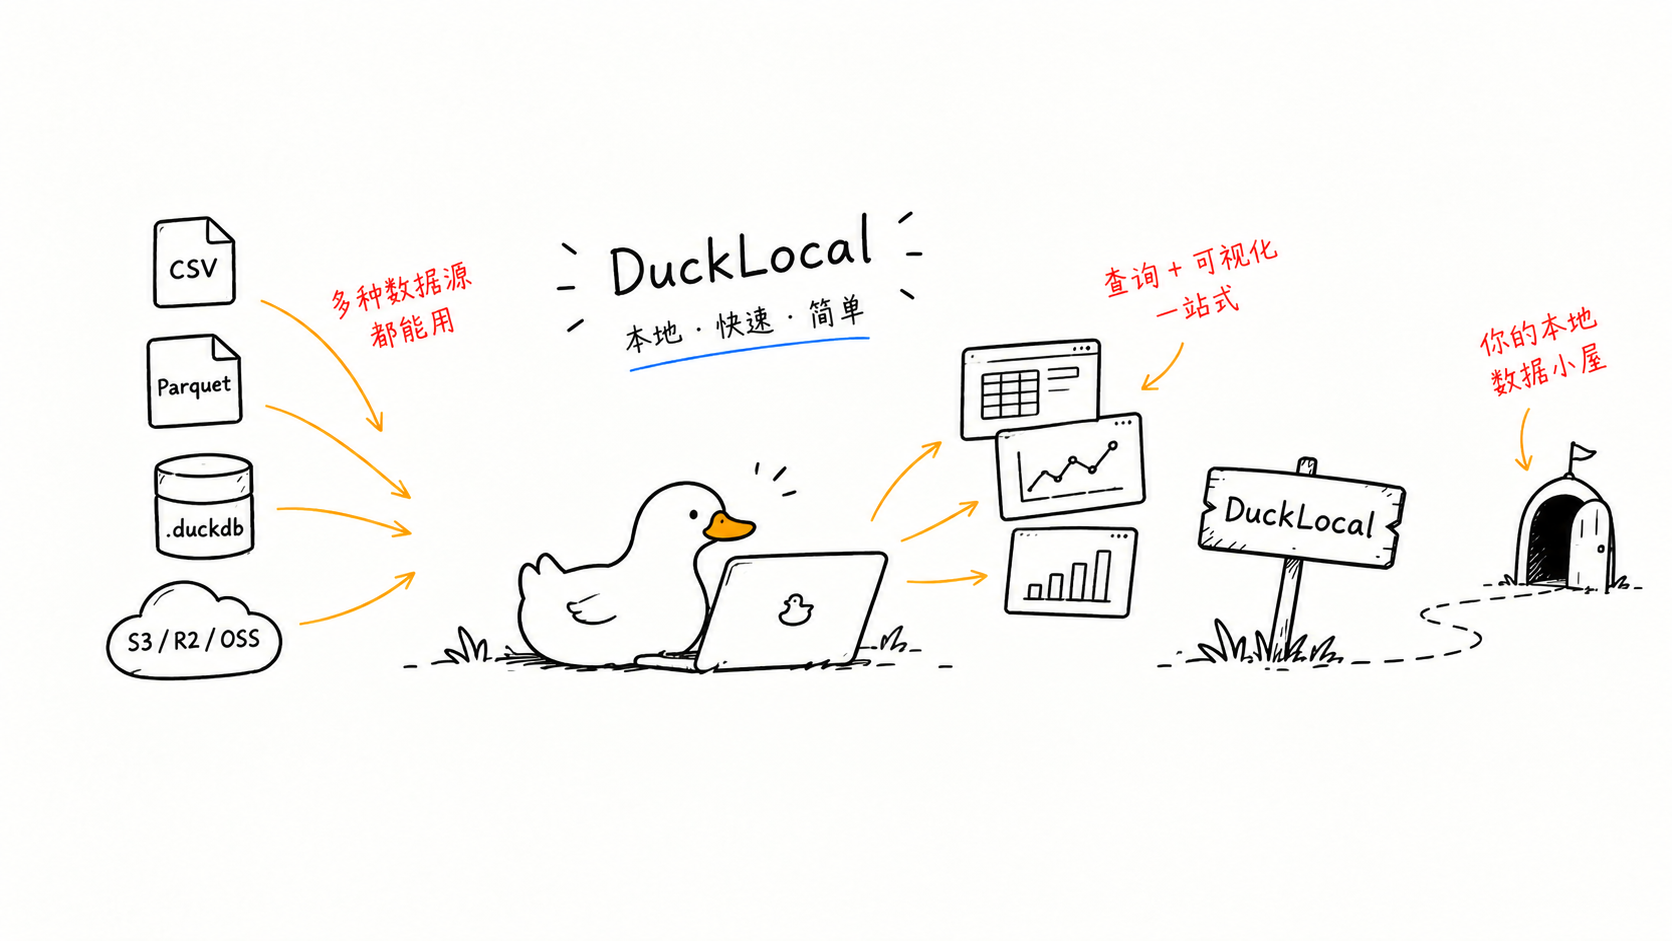
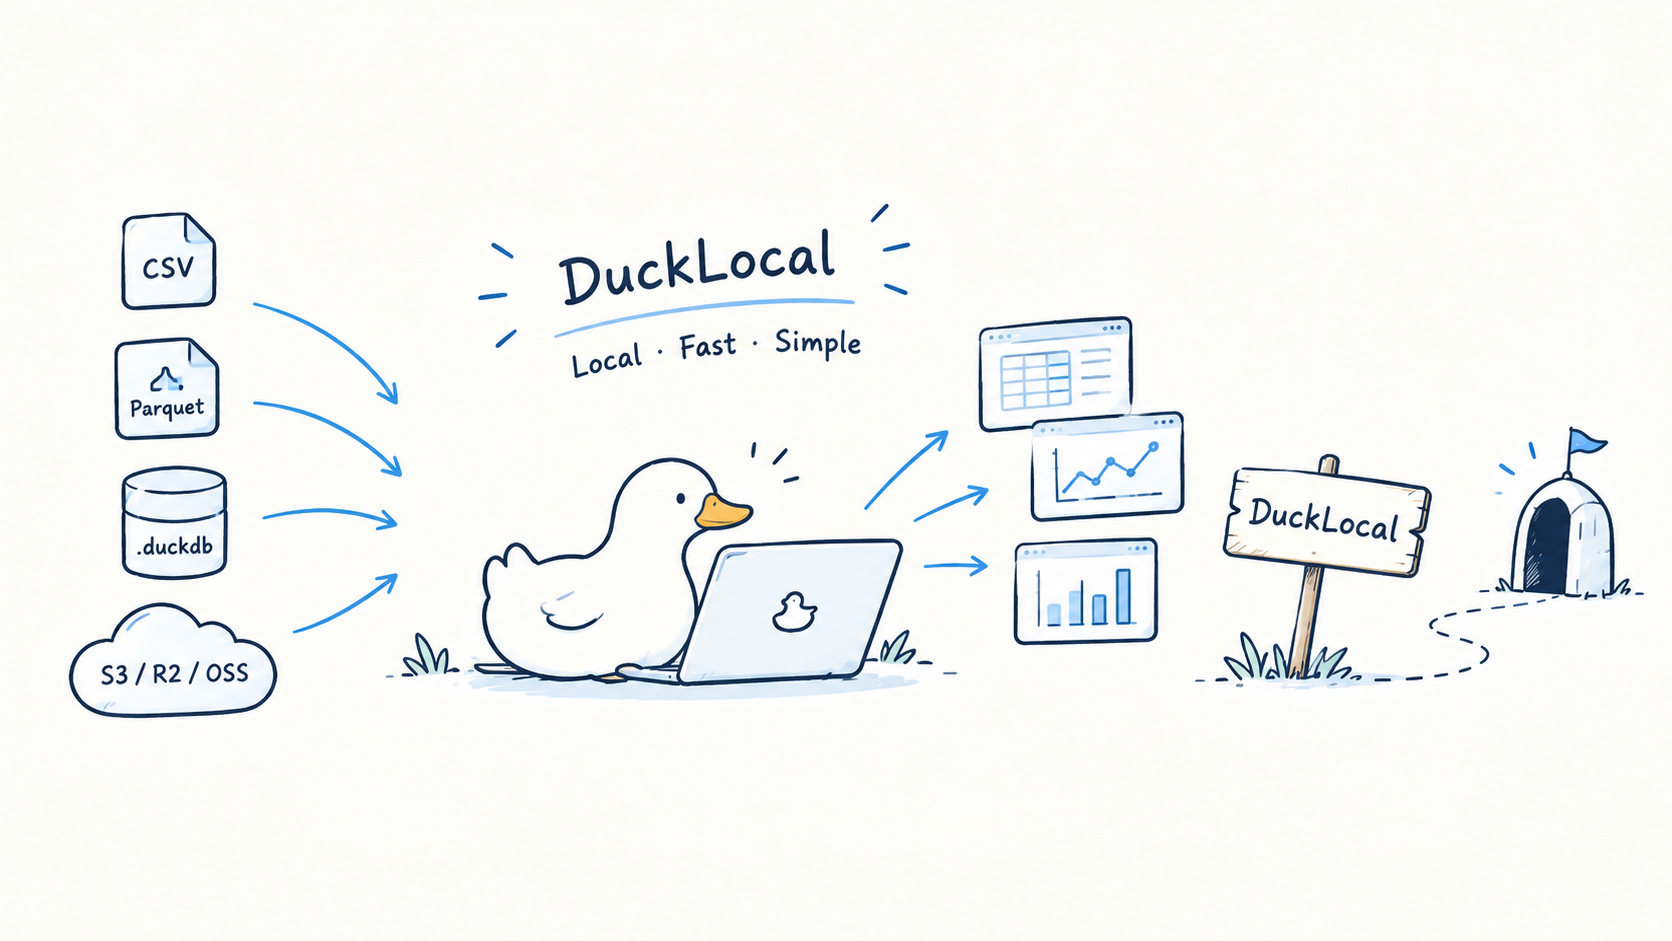
Trim the READMEs and replace the intro image
Point to ducklocal.app/docs instead of listing every guide, condense the
CLI section to the common commands, and merge Run and Build into one
Development section.

diff --git a/README.md b/README.md
@@ -4,7 +4,7 @@
 
 **[ducklocal.app](https://ducklocal.app/)** · **[Docs](https://ducklocal.app/docs/)** · **[中文文档](README.zh-CN.md)**
 
-A local-first workspace for querying and exploring your data, built natively on DuckDB. Point it at your files — there is no connection to configure, no schema to create, and nothing is uploaded anywhere.
+A local-first workspace for querying and exploring your data, built natively on DuckDB. Point it at your files — no connection to configure, no schema to create, nothing uploaded.
 
 ![How DuckLocal works](assets/intro.png)
 
@@ -17,98 +17,53 @@ ducklocal './data/*.csv'      # a pattern
 ducklocal warehouse.duckdb    # or an existing DuckDB database
 ```
 
-Each CSV, TSV, Parquet, JSON, or Excel file becomes queryable as the window opens. You can also drag files or folders onto the window, or pick them from the file dialog — and they stay registered, so the next launch starts with the same workspace. One open request attaches at most 256 files.
+CSV, TSV, Parquet, JSON, and Excel files are queryable as soon as the window opens. You can also drag them onto the window or pick them from the file dialog; the workspace is remembered for the next launch.
 
-Your data stays on your machine: nothing is uploaded, and there is no account. Map charts can draw an OpenStreetMap base map under their points, off until you turn it on (View → Online base map): its tile requests reveal the area being viewed, never your rows.
+Your data stays on your machine, and there is no account. The only optional network use is the OpenStreetMap base map for map charts (View → Online base map, off by default), and S3 when you configure it.
 
 ## Features
 
-- Open local CSV / TSV / Parquet / JSON / Excel files, or whole folders — from the command line, the picker, or a drop on the window
-- SQL editor with syntax highlighting, autocompletion and one-click formatting, across multiple query tabs
-- Run queries with ⌘↵ (Cmd+Enter); inspect plans with EXPLAIN
-- Schema sidebar: browse databases / schemas / tables / columns, generate SELECT queries in one click, alter a column's data type from a dialog
-- Results grid with filtering, cell copy, CSV/Parquet export and built-in charts
-- Query history with one-click refill into the editor
-- Optional S3 support via httpfs; credentials are session-only
-- Light and dark themes, four interface sizes (⌘+ / ⌘− / ⌘0), English and 简体中文
+- SQL editor with highlighting, autocompletion, formatting, and multiple tabs; run with ⌘↵, inspect plans with EXPLAIN
+- Schema sidebar: browse tables and columns, generate SELECTs, change a column's type
+- Results grid with filtering, copy, CSV/Parquet export, and built-in charts
+- Dashboards as `.dash` files, with cross-filtering
+- Query history, S3 via httpfs (session-only credentials)
+- Light and dark themes, four interface sizes, English and 简体中文
 
-## AI CLI and official skill
+## CLI for agents
 
-Run one SQL statement without opening a window or reading GUI history/settings:
+The same binary works headless and returns structured JSON, so an AI agent can explore data without a window:
 
 ```bash
-ducklocal --help
-ducklocal query --sql "DESCRIBE SELECT * FROM 'sales.csv'"
+ducklocal schema ./data/                                  # what can be queried, with columns
 ducklocal query --sql "SELECT * FROM 'sales.csv'" --limit 20
-ducklocal query --database warehouse.duckdb --sql "SHOW TABLES"
+ducklocal check dashboard.dash                            # validate a dashboard spec
+ducklocal open --run --sql "SELECT ..."                   # hand a result to the running window
+ducklocal open --state                                    # read back what the window shows
 ```
 
-Results are structured JSON, with explicit truncation and precision-preserving value encodings; `--format md` prints the same values as a Markdown table for a document to quote. File databases default to read-only; writes require `--read-write`. Read-only is not a filesystem/network sandbox: `COPY` can still write files. An error is JSON too, and carries a `hint` when there is an obvious next step — the flag that was meant, `--read-write` for a refused write, `ducklocal schema` for a table that does not exist.
+Database files open read-only unless you pass `--read-write`. See the [CLI guide](https://ducklocal.app/docs/cli) for every command and option.
 
-`ducklocal schema` maps what there is to query in one call — every file under the PATHs, or a database's tables and views, with their columns and the SQL that reads each. A large catalog comes back as a summary sized for a prompt, and `--stats` gives one relation's exact per-column statistics:
-
-```bash
-ducklocal schema ./data/
-ducklocal schema --database warehouse.duckdb --table orders
-ducklocal schema sales.csv --stats        # nulls, distinct, min/max, median, day coverage
-```
-
-An analysis app can be exported as one standalone HTML file — the statements its `query()` calls issued, with their results — for sharing with someone who does not have DuckLocal:
-
-```bash
-ducklocal export --html examples/analysis_app
-```
-
-A dashboard can also be declared as data: a `.dash` file of query and plot blocks, opened as a tab like an app, editable right there in the GUI. A `filter` block makes a bar chart or a table clickable: the value picked there narrows every query that reads it as `$name` — cross-filtering, with the picking plot itself left whole. `ducklocal check` validates a spec without a window, and `ducklocal lsp` gives any LSP-capable editor the same diagnostics, completion, hover and go-to-definition:
-
-```bash
-ducklocal dashboard.dash                  # open as a dashboard tab
-ducklocal check dashboard.dash            # validate; JSON diagnostics, exit 2 on mistakes
-ducklocal lsp                             # language server over stdio, for editors
-```
-
-When the work is for a person to see, `ducklocal open` hands it to the window that is already running — starting one if none is — as a tab in front. It runs in the window's own session, so they can carry on from it:
-
-```bash
-ducklocal open --title "Revenue" --run --sql "SELECT channel, sum(amount) FROM 'orders.csv' GROUP BY 1"
-ducklocal open dashboard.dash             # a dashboard tab; data files and folders attach
-ducklocal open --no-launch --sql-file q.sql   # exit 1, kind not_running, if no window is up
-```
-
-The other direction works too: `ducklocal open --state` reports what the running window shows — its tabs, each query's SQL and result, each dashboard's picked filters — so an agent can carry on from where the person left off.
-
-See the [CLI guide](https://ducklocal.app/docs/cli) for conversion, stdin, output, app export, and safety details.
-
-The [official agent skill](skills/ducklocal/SKILL.md) teaches schema-first exploration, SQL analysis, and verified file conversion. Copy it into your target project's supported skills directory; for example, from this checkout:
+The [official agent skill](skills/ducklocal/SKILL.md) teaches schema-first exploration, SQL analysis, and file conversion. Copy it into your project:
 
 ```bash
 mkdir -p /path/to/your-project/.claude/skills
 cp -R skills/ducklocal /path/to/your-project/.claude/skills/
 ```
 
-Inspect existing destinations before overwriting. No global configuration is changed. Current releases target macOS 12+ on Apple silicon; the app binary is `/Applications/DuckLocal.app/Contents/MacOS/ducklocal`. Check its help/version for CLI support, or build this checkout with `cargo build --locked` and use `./target/debug/ducklocal`.
-
 ## Documentation
 
-The guides are at **[ducklocal.app/docs](https://ducklocal.app/docs/)**: [getting started](https://ducklocal.app/docs/getting-started), a [10-minute tutorial](https://ducklocal.app/docs/tutorial) with sample data, [troubleshooting](https://ducklocal.app/docs/troubleshooting), [data sources](https://ducklocal.app/docs/data-sources), [S3 and httpfs](https://ducklocal.app/docs/s3), [SQL editor](https://ducklocal.app/docs/sql-editor), [schema browser and history](https://ducklocal.app/docs/schema-and-history), [results and charts](https://ducklocal.app/docs/results-and-charts), [settings and app data](https://ducklocal.app/docs/settings-and-data), [dashboards](https://ducklocal.app/docs/dashboards), and [development](https://ducklocal.app/docs/development).
+Guides, a tutorial, and troubleshooting are at **[ducklocal.app/docs](https://ducklocal.app/docs/)** (source: [JetSquirrel/ducklocal-site](https://github.com/JetSquirrel/ducklocal-site)).
 
-The website — the product page at [ducklocal.app](https://ducklocal.app/) and the docs — lives in its own repository, [JetSquirrel/ducklocal-site](https://github.com/JetSquirrel/ducklocal-site). A change here that changes what the docs say needs a pull request there too.
-
-## Run
+## Development
 
 ```bash
 cargo run                     # start with an empty workspace
 cargo run -- ./data/logs/     # or open something straight away
+./scripts/bundle.sh           # build target/release/DuckLocal.app (unsigned)
 ```
 
-## Build the macOS app
-
-```bash
-./scripts/bundle.sh
-# Produces target/release/DuckLocal.app
-```
-
-The released disk image runs on macOS 12 or later, Apple silicon only. `bundle.sh` does not sign what it builds; `scripts/package-macos.sh` is the shipping path and signs and notarizes the dmg. See [development](https://ducklocal.app/docs/development).
+Releases target macOS 12+ on Apple silicon; `scripts/package-macos.sh` builds the signed, notarized dmg. See [development](https://ducklocal.app/docs/development).
 
 ## License
 

diff --git a/README.zh-CN.md b/README.zh-CN.md
@@ -17,98 +17,53 @@ ducklocal './data/*.csv'      # 通配符
 ducklocal warehouse.duckdb    # 或已有的 DuckDB 数据库
 ```
 
-每个 CSV / TSV / Parquet / JSON / Excel 文件在窗口打开时即可查询。也可以把文件或文件夹拖进窗口，或用文件对话框选择；它们会被记住，下次启动直接回到同一个工作区。一次打开请求最多挂载 256 个文件。
+CSV / TSV / Parquet / JSON / Excel 文件在窗口打开时即可查询。也可以拖进窗口或用文件对话框选择；工作区会被记住，下次启动直接恢复。
 
-数据只留在这台机器上：不上传、不需要账号。地图图表可以在点下方绘制 OpenStreetMap 底图，默认关闭，需在「视图 → 在线底图」中开启：瓦片请求会暴露正在查看的区域，但绝不包含你的数据行。
+数据只留在这台机器上，不需要账号。仅有的可选联网是地图图表的 OpenStreetMap 底图（「视图 → 在线底图」，默认关闭），以及你主动配置的 S3。
 
 ## 功能
 
-- 把本地 CSV / TSV / Parquet / JSON / Excel 文件或整个文件夹打开为可查询关系：命令行、文件对话框、拖放三种入口
-- SQL 编辑器：语法高亮、自动补全、一键格式化，支持多查询 Tab
-- ⌘↵（Cmd+Enter）运行查询，EXPLAIN 查看查询计划
-- Schema 侧栏：浏览数据库 / schema / 表 / 列，一键生成 SELECT 查询，可在对话框中修改列的数据类型
-- 结果表格支持筛选、单元格复制、CSV/Parquet 导出和内置图表
-- 查询历史，单击回填编辑器
-- 可选 S3 支持（httpfs），凭据仅当前会话有效
-- 明暗主题切换，四档界面大小（⌘+ / ⌘− / ⌘0），中英文界面
+- SQL 编辑器：语法高亮、自动补全、格式化、多 Tab；⌘↵ 运行，EXPLAIN 查看计划
+- Schema 侧栏：浏览表和列、一键生成 SELECT、修改列类型
+- 结果表格：筛选、复制、CSV/Parquet 导出、内置图表
+- `.dash` 文件定义的 Dashboard，支持交叉筛选
+- 查询历史；通过 httpfs 支持 S3（凭据仅当前会话有效）
+- 明暗主题、四档界面大小、中英文界面
 
-## AI CLI 与官方 skill
+## 面向 Agent 的 CLI
 
-无窗口执行一条 SQL，不读取 GUI 历史或设置：
+同一个二进制可以无窗口运行并输出结构化 JSON，AI agent 不用打开界面就能探索数据：
 
 ```bash
-ducklocal --help
-ducklocal query --sql "DESCRIBE SELECT * FROM 'sales.csv'"
+ducklocal schema ./data/                                  # 列出可查询的内容及列
 ducklocal query --sql "SELECT * FROM 'sales.csv'" --limit 20
-ducklocal query --database warehouse.duckdb --sql "SHOW TABLES"
+ducklocal check dashboard.dash                            # 校验 dashboard 文件
+ducklocal open --run --sql "SELECT ..."                   # 把结果交给正在运行的窗口
+ducklocal open --state                                    # 读取窗口当前显示的内容
 ```
 
-结果为结构化 JSON，显式标记截断并保留数值精度；`--format md` 把同样的值输出为 Markdown 表格，便于写进文档引用。文件数据库默认只读，写入需 `--read-write`；只读不是文件系统/网络沙箱，`COPY` 仍可写文件。出错时同样输出 JSON；有明确下一步时会带 `hint`，比如拼错的参数本来是哪个、写入被拒时加 `--read-write`、表不存在时先跑 `ducklocal schema`。
+数据库文件默认只读，写入需加 `--read-write`。全部命令和参数见 [CLI 指南](https://ducklocal.app/docs/zh/cli)。
 
-`ducklocal schema` 一次列出所有可查询的东西：PATH 下的每个文件，或数据库的表和视图，连同列和读取它的 SQL。目录很大时返回适合放进提示词的摘要；`--stats` 给出单个关系精确的逐列统计：
-
-```bash
-ducklocal schema ./data/
-ducklocal schema --database warehouse.duckdb --table orders
-ducklocal schema sales.csv --stats        # 空值、去重数、最值、中位数、日期覆盖
-```
-
-分析应用可以导出为一个独立 HTML 文件——应用 `query()` 发出的语句及其结果——方便发给没有 DuckLocal 的人：
-
-```bash
-ducklocal export --html examples/analysis_app
-```
-
-dashboard 也可以声明为数据：一个由 query 和 plot block 组成的 `.dash` 文件，像应用一样以标签页打开，并可直接在 GUI 里编辑。`filter` block 让柱状图或表格可以点选：选中的值会筛选所有以 `$name` 引用它的查询，也就是交叉筛选，做选择的那张图本身保持不变。`ducklocal check` 无窗口校验规格文件，`ducklocal lsp` 则把同样的诊断、补全、悬停和跳转定义提供给任何支持 LSP 的编辑器：
-
-```bash
-ducklocal dashboard.dash                  # 以 dashboard 标签页打开
-ducklocal check dashboard.dash            # 校验；JSON 诊断，有错误时退出码 2
-ducklocal lsp                             # 面向编辑器的语言服务器（stdio）
-```
-
-如果结果是给人看的，`ducklocal open` 会把它交给已经在运行的窗口（没有就先启动一个），作为前台的新标签页打开。它在窗口自己的会话里运行，人可以直接接着改：
-
-```bash
-ducklocal open --title "Revenue" --run --sql "SELECT channel, sum(amount) FROM 'orders.csv' GROUP BY 1"
-ducklocal open dashboard.dash             # 打开为 dashboard 标签页；数据文件和文件夹会被挂载
-ducklocal open --no-launch --sql-file q.sql   # 没有窗口时退出码 1，kind 为 not_running
-```
-
-反方向也可以：`ducklocal open --state` 报告正在运行的窗口里显示的内容，包括各个标签页、每个查询的 SQL 和结果、每个 dashboard 当前选中的筛选。这样 agent 可以从人停下的地方接着做。
-
-转换、stdin、输出编码、应用导出和安全说明见 [CLI 指南](https://ducklocal.app/docs/zh/cli)。
-
-[官方 agent skill](skills/ducklocal/SKILL.md) 教 AI 先查 schema，再进行 SQL 分析及验证格式转换。复制到目标项目支持的 skill 目录即可，例如在本仓库执行：
+[官方 agent skill](skills/ducklocal/SKILL.md) 教 AI 先查 schema，再做 SQL 分析和格式转换。复制到你的项目即可：
 
 ```bash
 mkdir -p /path/to/your-project/.claude/skills
 cp -R skills/ducklocal /path/to/your-project/.claude/skills/
 ```
 
-目标已存在时先检查，避免覆盖。不修改全局配置。当前发布范围为 macOS 12+、Apple 芯片；app 内二进制位于 `/Applications/DuckLocal.app/Contents/MacOS/ducklocal`。先检查 help/version 是否支持 CLI，或 `cargo build --locked` 后用 `./target/debug/ducklocal`。
-
 ## 文档
 
-完整指南在 **[ducklocal.app/docs](https://ducklocal.app/docs/zh/)**：[快速上手](https://ducklocal.app/docs/zh/getting-started)、带样例数据的 [10 分钟上手教程](https://ducklocal.app/docs/zh/tutorial)、[常见问题排查](https://ducklocal.app/docs/zh/troubleshooting)、[数据源](https://ducklocal.app/docs/zh/data-sources)、[S3 与 httpfs](https://ducklocal.app/docs/zh/s3)、[SQL 编辑器](https://ducklocal.app/docs/zh/sql-editor)、[Schema 浏览与历史](https://ducklocal.app/docs/zh/schema-and-history)、[结果与图表](https://ducklocal.app/docs/zh/results-and-charts)、[设置与应用数据](https://ducklocal.app/docs/zh/settings-and-data)、[Dashboard](https://ducklocal.app/docs/zh/dashboards)、[开发](https://ducklocal.app/docs/zh/development)。
+使用指南、上手教程和问题排查见 **[ducklocal.app/docs](https://ducklocal.app/docs/zh/)**（源码：[JetSquirrel/ducklocal-site](https://github.com/JetSquirrel/ducklocal-site)）。
 
-网站——[ducklocal.app](https://ducklocal.app/zh/) 产品首页与文档——放在独立的仓库 [JetSquirrel/ducklocal-site](https://github.com/JetSquirrel/ducklocal-site)。这里的改动如果改变了文档里的说法，也需要向那边提交 pull request。
-
-## 运行
+## 开发
 
 ```bash
 cargo run                     # 启动空工作区
 cargo run -- ./data/logs/     # 或直接打开数据
+./scripts/bundle.sh           # 生成 target/release/DuckLocal.app（未签名）
 ```
 
-## 打包 macOS 应用
-
-```bash
-./scripts/bundle.sh
-# 生成 target/release/DuckLocal.app
-```
-
-发布的安装包要求 macOS 12 及以上、Apple 芯片。`bundle.sh` 不做签名；正式发布走 `scripts/package-macos.sh`，它会签名并对 dmg 做公证。详见[开发](https://ducklocal.app/docs/zh/development)。
+发布版本要求 macOS 12+、Apple 芯片；`scripts/package-macos.sh` 生成签名并公证的 dmg。详见[开发文档](https://ducklocal.app/docs/zh/development)。
 
 ## 开源协议
 
